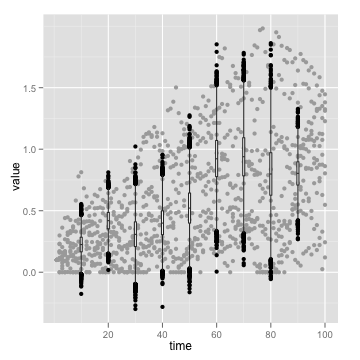
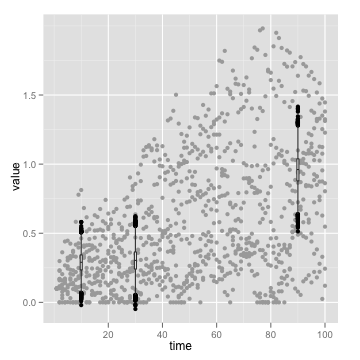
toy trend v status example

diff --git a/monitoring_knit_.md b/monitoring_knit_.md
@@ -137,7 +137,12 @@ Tradeoff from status (left) to trend (right) with constant effort
 ### Example###
 
 
-**Likelihood**
+
+#### Status ####
+
+Three "populations" sampled every 30 units
+
+
   
 <!--begin.rcode est-recov-lik,echo=FALSE,cache=TRUE,warning=FALSE  
 require(bbmle)
@@ -145,11 +150,8 @@ require(ggplot2)
 
 r.m <- melt(r.d, id.vars=c('time'))
 g <- ggplot()+geom_point(aes(time, value), color='darkgrey', data=r.m)
-
-
-
-for(time in 1:9*10){
-  sub.d <- list(tot=t(sample(r.d[time,1:10], size=5)))
+for(time in c(1,3,9)*10){
+  sub.d <- list(tot=t(sample(r.d[time,1:10], size=9)))
   ml.t <- mle2(tot~dnorm(mean=mu, sd=sigma), data=sub.d, start=list(mu=mean(sub.d$tot), sigma=sd(sub.d$tot)))
   post.t <- sample.naive.posterior(ml.t)
   post.t$time = time
@@ -160,17 +162,17 @@ g
 
 end.rcode-->
   
-Likelihood-based, treated like independent samples (no population model)
+**Likelihood**, treated like independent samples (no population model)
 
 
 
-**Bayes**
+
   
 <!--begin.rcode est-recov-bayes,echo=FALSE,cache=TRUE,warning=FALSE  
 g <- ggplot()+geom_point(aes(time, value), color='darkgrey', data=r.m)
 prior <- NULL
-for(time in 1:9*10){
-  sub.d <- list(tot=t(sample(r.d[time,1:10], size=5)))
+for(time in c(1,3,9)*10){
+  sub.d <- list(tot=t(sample(r.d[time,1:10], size=9)))
   ml.t <- mle2(tot~dnorm(mean=mu, sd=sigma), data=sub.d, start=list(mu=mean(sub.d$tot), sigma=sd(sub.d$tot)))
   post.t <- sample.naive.posterior(ml.t)
   if(is.null(prior)){
@@ -188,7 +190,55 @@ g
 
 end.rcode-->
   
-Bayesian from independent samples
+**Bayes**, treated like "independent" samples
+
+
+#### Trend ####
+
+One "population" sampled every 10 units ...
+
+<!--begin.rcode est-recov-lik-trend,echo=FALSE,cache=TRUE,warning=FALSE  
+g <- ggplot()+geom_point(aes(time, value), color='darkgrey', data=r.m)
+g <- g + geom_line(aes(time, pop1), data=r.d, color='darkgrey')
+g <- g + geom_line(aes(time, pop2), data=r.d, color='darkgrey')
+g <- g + geom_line(aes(time, pop3), data=r.d, color='darkgrey')
+for(time in 1:9*10){
+  sub.d <- list(tot=t(r.d[time,1:3]))
+  ml.t <- mle2(tot~dnorm(mean=mu, sd=sigma), data=sub.d, start=list(mu=mean(sub.d$tot), sigma=sd(sub.d$tot)))
+  post.t <- sample.naive.posterior(ml.t)
+  post.t$time = time
+  g <- g + geom_boxplot(aes(time, mu), data=post.t)
+         
+}
+g
+
+end.rcode-->
+**Likelihood**
+
+
+<!--begin.rcode est-recov-bayes-trend,echo=FALSE,cache=TRUE,warning=FALSE  
+g <- ggplot()+geom_point(aes(time, value), color='darkgrey', data=r.m)
+g <- g + geom_line(aes(time, pop1), data=r.d, color='darkgrey')
+g <- g + geom_line(aes(time, pop2), data=r.d, color='darkgrey')
+g <- g + geom_line(aes(time, pop3), data=r.d, color='darkgrey')
+for(time in 1:9*10){
+  sub.d <- list(tot=t(r.d[time,1:3]))
+  ml.t <- mle2(tot~dnorm(mean=mu, sd=sigma), data=sub.d, start=list(mu=mean(sub.d$tot), sigma=sd(sub.d$tot)))
+  post.t <- sample.naive.posterior(ml.t)
+  if(is.null(prior)){
+    prior <- c(coef(ml.t)['mu'], coef(ml.t)['sigma'])
+  }
+  if(!is.null(prior)){
+    post.t$mu <- sample(post.t$mu, replace=TRUE, prob=dnorm(post.t$mu, mean=prior[1], sd=prior[2]))
+    prior <- c(coef(ml.t)['mu'], coef(ml.t)['sigma'])
+  }
+  post.t$time = time
+  g <- g + geom_boxplot(aes(time, mu), data=post.t)
+         
+}
+g
+end.rcode-->
+**Bayes**
 
 
   

diff --git a/monitoring.md b/monitoring.md
@@ -90,21 +90,40 @@ Tradeoff from status (left) to trend (right) with constant effort
 ### Example###
 
 
-**Likelihood**
+
+#### Status ####
+
+Three "populations" sampled every 30 units
+
+
   
 ![plot of chunk est-recov-lik](https://github.com/ashander/sandbox/raw/master/est-recov-lik.png)
 
   
-Likelihood-based, treated like independent samples (no population model)
+**Likelihood**, treated like independent samples (no population model)
 
 
 
-**Bayes**
+
   
 ![plot of chunk est-recov-bayes](https://github.com/ashander/sandbox/raw/master/est-recov-bayes.png)
 
   
-Bayesian from independent samples
+**Bayes**, treated like "independent" samples
+
+
+#### Trend ####
+
+One "population" sampled every 10 units ...
+
+![plot of chunk est-recov-lik-trend](https://github.com/ashander/sandbox/raw/master/est-recov-lik-trend.png)
+
+**Likelihood**
+
+
+![plot of chunk est-recov-bayes-trend](https://github.com/ashander/sandbox/raw/master/est-recov-bayes-trend.png)
+
+**Bayes**
 
 
   
